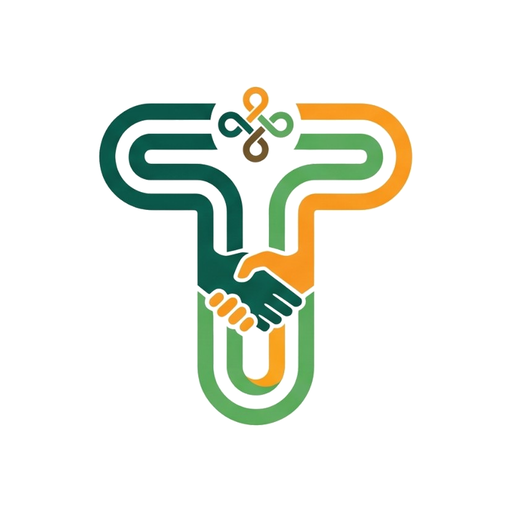
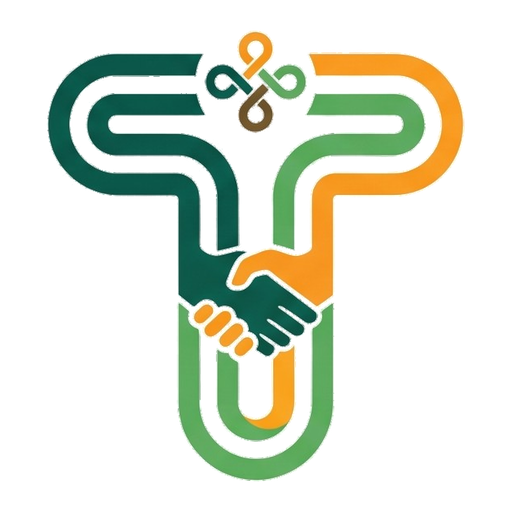
fix(trade): aba Três Pescadores acessível pelo menu Parques, acumulado do ano e ícones sem fundo
- A aba Três Pescadores não estava em nenhum grupo do menu em seções e ficava escondida: entra em "Parques".
- Três Pescadores ganha o acumulado do ano (jan até o mês em foco) contra o mesmo período do ano anterior.
- Ícones do app e favicon sem fundo (transparentes), com bordas sem contorno claro; a favicon troca entre as versões para aba clara e escura. apple-touch-icon segue com fundo branco (exigência do iOS).

Changed region(s): [[0.0938, 0.0625, 0.9062, 0.9375]]

diff --git a/trade_v2.js b/trade_v2.js
@@ -1101,6 +1101,23 @@
       kpi('B2B (Trade)', nf(X.b2b) + asc, cmp3p(X, A, mesLbl(mesAnoAnt(m0)), 'b2b') + '<br>' + cmp3p(X, P, mesLbl(mesAnt(m0)), 'b2b'), null, COR_3P.b2b) +
       kpi('B2C', nf(X.b2c), cmp3p(X, A, mesLbl(mesAnoAnt(m0)), 'b2c') + '<br>' + cmp3p(X, P, mesLbl(mesAnt(m0)), 'b2c'), null, COR_3P.b2c) +
       kpi('Share B2B', pf(X.b2b / X.total) + asc, A ? 'mesmo mês de 2025: ' + pf(A.b2b / A.total) + (A.b2bIncompleto ? '*' : '') : 'sem base em 2025') + '</div>';
+    // acumulado do ano até o mês em foco (jan até o mês), contra o mesmo período do ano anterior (só 2026 tem base)
+    var anoF = Number(m0.slice(0, 4)), mesF = Number(m0.slice(5, 7)), AC = { t: 0, b: 0, c: 0, t0: 0, b0: 0, c0: 0, inc: false, inc0: false, base: anoF === 2026 };
+    for (var im = 0; im < mesF; im++) {
+      var y1 = M[ym(anoF, im)], y0 = M[ym(anoF - 1, im)];
+      if (y1) { AC.t += y1.total; AC.b += y1.b2b; AC.c += y1.b2c; if (y1.b2bIncompleto) AC.inc = true; }
+      if (y0) { AC.t0 += y0.total; AC.b0 += y0.b2b; AC.c0 += y0.b2c; if (y0.b2bIncompleto) AC.inc0 = true; } else AC.base = false;
+    }
+    var lblAc = 'Jan-' + MES[mesF - 1] + '/' + String(anoF).slice(2), lblAc0 = 'Jan-' + MES[mesF - 1] + '/' + String(anoF - 1).slice(2);
+    function cmpAc(campo) {
+      if (!AC.base) return 'sem base em ' + (anoF - 1);
+      if (campo === 'b' && (AC.inc || AC.inc0)) return 'vs ' + lblAc0 + ': base incompleta (jan no bruto)';
+      return 'vs ' + lblAc0 + ' (' + nf(AC[campo + '0']) + '): ' + pill(varPct(AC[campo], AC[campo + '0']));
+    }
+    html += '<div class="sec" style="margin-top:18px"><div><div class="sec-t">ACUMULADO ' + lblAc.toUpperCase() + '</div><div class="sec-s">Soma dos meses fechados de janeiro até ' + mesLbl(m0) + ' contra o mesmo período do ano anterior</div></div></div>';
+    html += '<div class="cli-kpis-ag">' + kpi('Visitação total', nf(AC.t), cmpAc('t')) +
+      kpi('B2B (Trade)', nf(AC.b) + (AC.inc ? '*' : ''), cmpAc('b'), null, COR_3P.b2b) + kpi('B2C', nf(AC.c), cmpAc('c'), null, COR_3P.b2c) +
+      kpi('Share B2B', pf(AC.t ? AC.b / AC.t : null) + (AC.inc ? '*' : ''), AC.base && AC.t0 ? lblAc0 + ': ' + pf(AC.b0 / AC.t0) + (AC.inc0 ? '*' : '') : 'sem base em ' + (anoF - 1)) + '</div>';
     // gráfico 1: composição mensal B2C + B2B = total; gráfico 2: share B2B
     html += '<div class="row2"><div class="cc"><div class="cc-h"><div class="cc-t">Visitação mensal · B2B e B2C</div><div class="cc-s">Barras empilhadas somam o total do parque' +
       (meses.some(function (m) { return M[m].parcial; }) ? ' · ' + mesLbl(todos[todos.length - 1]) + ' parcial até ' + dataBR(T.ate).slice(0, 5) + ' (barra clara)' : '') + '</div></div><div style="height:280px"><canvas id="tv2-c-3p"></canvas></div></div>' +
@@ -1570,7 +1587,7 @@
       ['res', 'Resultado', [['mar', '📅 Mês'], ['acum', '📊 Acumulado'], ['obz', '🎯 OBZ'], ['hist', '📈 Histórico']]],
       ['cli', 'Clientes', [['cli', '🏆 Top Clientes'], ['op', '💡 Oportunidades'], ['canc', '🚫 Cancelamento']]],
       ['mer', 'Mercado', [['share', '🔄 Share Trade'], ['imm', '🗻 Intel. Mercado'], ['ori', '🌎 Origem']]],
-      ['par', 'Parques', [['ind', '🏞 Indicadores Parques']]]
+      ['par', 'Parques', [['ind', '🏞 Indicadores Parques'], ['tres', '⛵ Três Pescadores']]]
     ];
     var topo = document.querySelector('.topbar');
     var orig = function (id) { return document.querySelector('.topbar .np[onclick*="\'' + id + '\'"]:not(.tv2-sec)'); };

diff --git a/trade_logo.js b/trade_logo.js
@@ -4,9 +4,9 @@
 
    A logo tem 3 versões, uma por tipo de fundo (o texto "TRADE" embaixo NÃO faz parte da logo; os arquivos
    trazem só o emblema, com fundo transparente):
-     logo-trade-claro.png   fundo claro/branco (ícones do app: icon-192/512, apple-touch-icon, favicon)
+     logo-trade-claro.png   fundo claro/branco (ícones do app sem fundo: icon-192/512, favicon-64; apple-touch-icon com fundo branco)
      logo-trade-preto.png   fundo preto e escuros como o azul-marinho: cabeçalho do Dash (desktop e mobile)
-     logo-trade-cinza.png   fundo cinza escuro (reserva, para fundos cinza)
+     logo-trade-cinza.png   fundo cinza escuro (favicon-64-escuro, para aba escura do navegador)
    Os cabeçalhos do Dash são sempre azul-marinho (var(--navy)) nos temas claro e escuro, por isso usam a versão preto.
    Substitui o pontinho (.brand-dot / .mob-dot) que ficava no lugar da logo. */
 (function () {
@@ -38,4 +38,20 @@
   }
   montar();
   window.addEventListener('load', montar);
+
+  // Favicon sem fundo que acompanha o tema do navegador: emblema para aba clara e para aba escura.
+  // O apple-touch-icon continua com fundo branco (o iOS exige ícone opaco).
+  // Um único link que o JS troca conforme o tema (mais confiável que "media" no link, que nem todo navegador respeita).
+  function favicons() {
+    var v = '?v=20261113b';
+    Array.prototype.slice.call(document.querySelectorAll('link[rel~="icon"]')).forEach(function (l) { l.parentNode.removeChild(l); });
+    var l = document.createElement('link');
+    l.rel = 'icon'; l.type = 'image/png'; l.sizes = '64x64';
+    document.head.appendChild(l);
+    var mq = window.matchMedia ? window.matchMedia('(prefers-color-scheme: dark)') : null;
+    function aplicar() { l.href = BASE + (mq && mq.matches ? 'favicon-64-escuro.png' : 'favicon-64.png') + v; }
+    aplicar();
+    if (mq) { if (mq.addEventListener) mq.addEventListener('change', aplicar); else if (mq.addListener) mq.addListener(aplicar); }
+  }
+  favicons();
 })();
